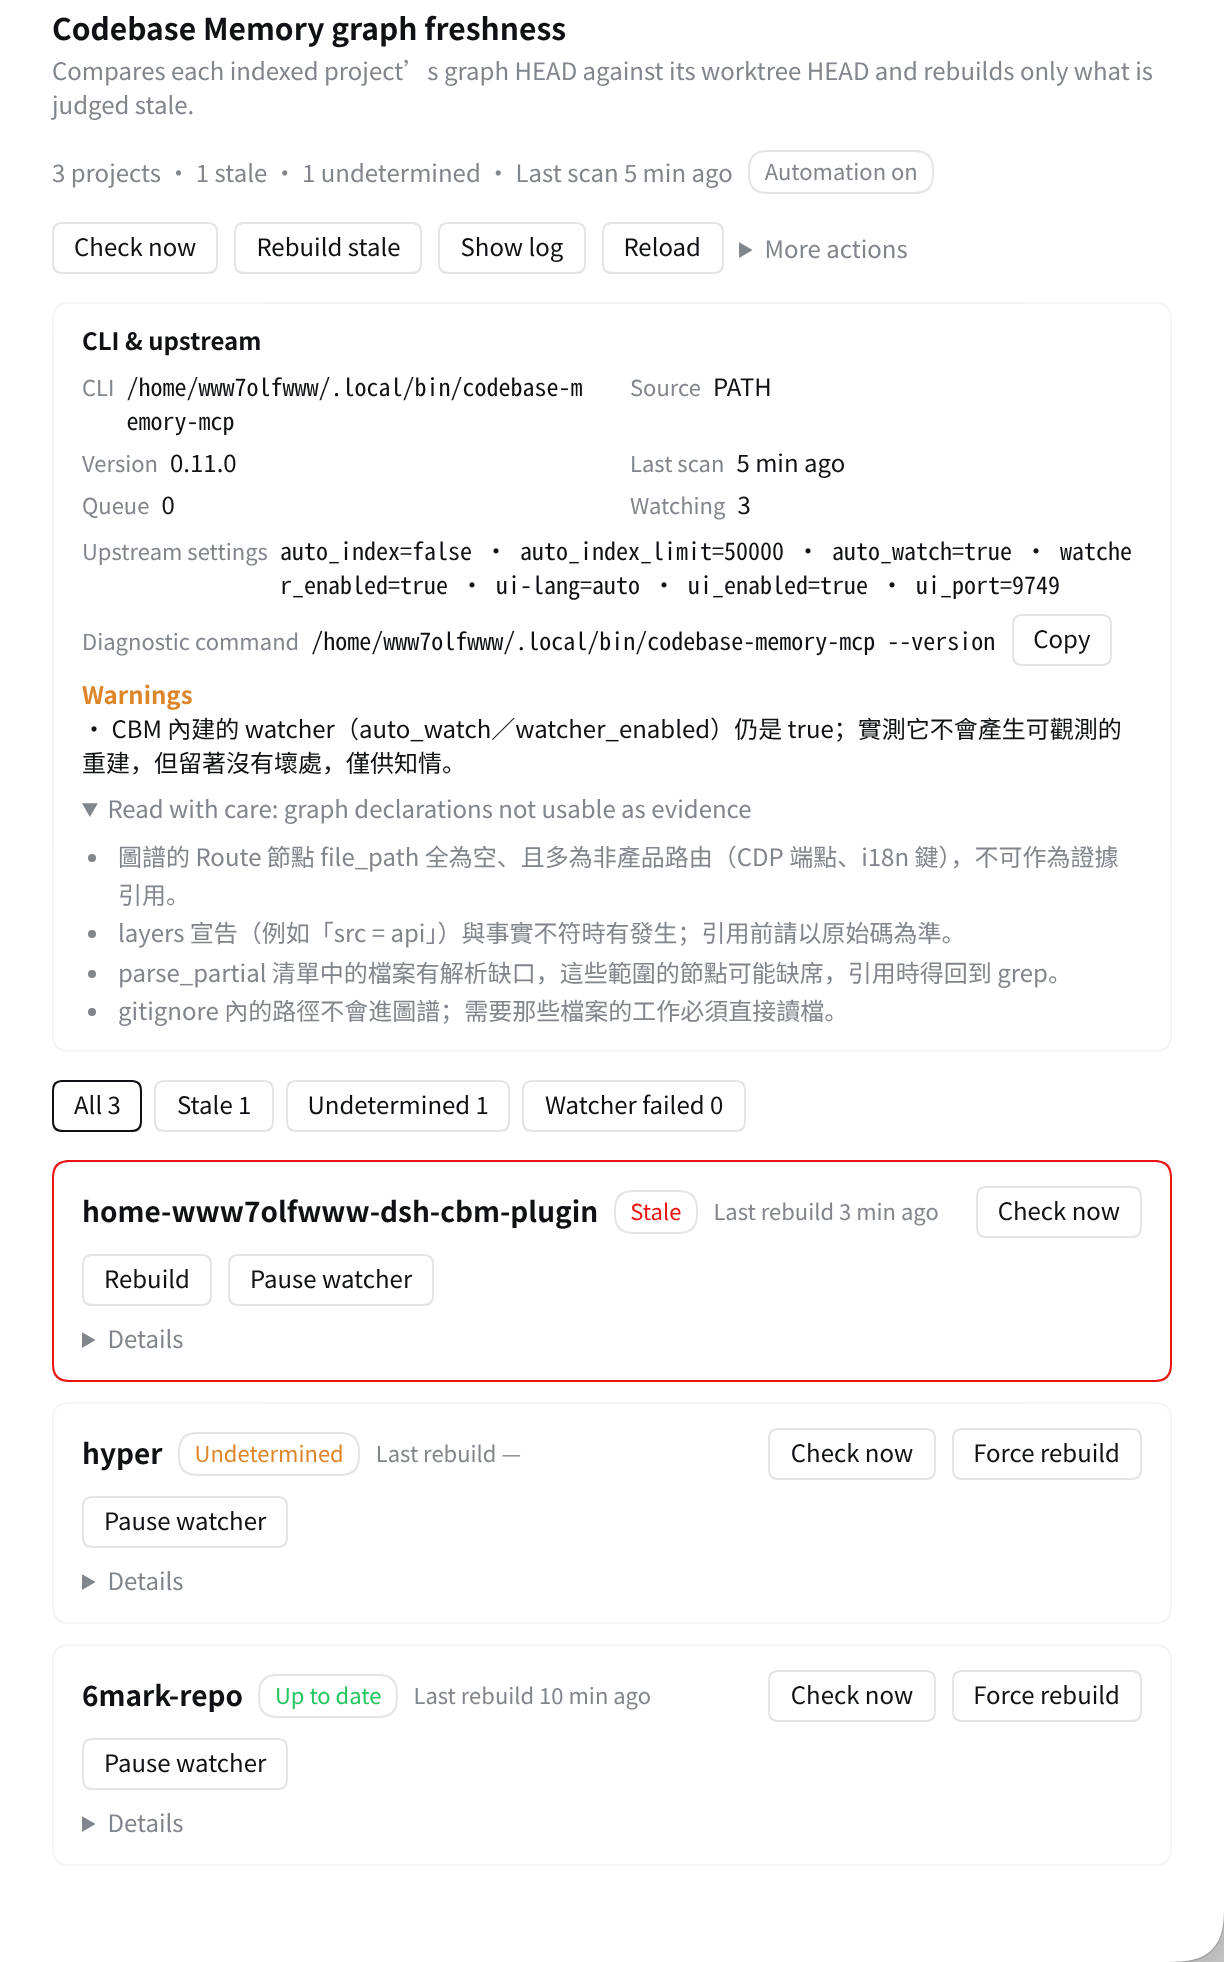
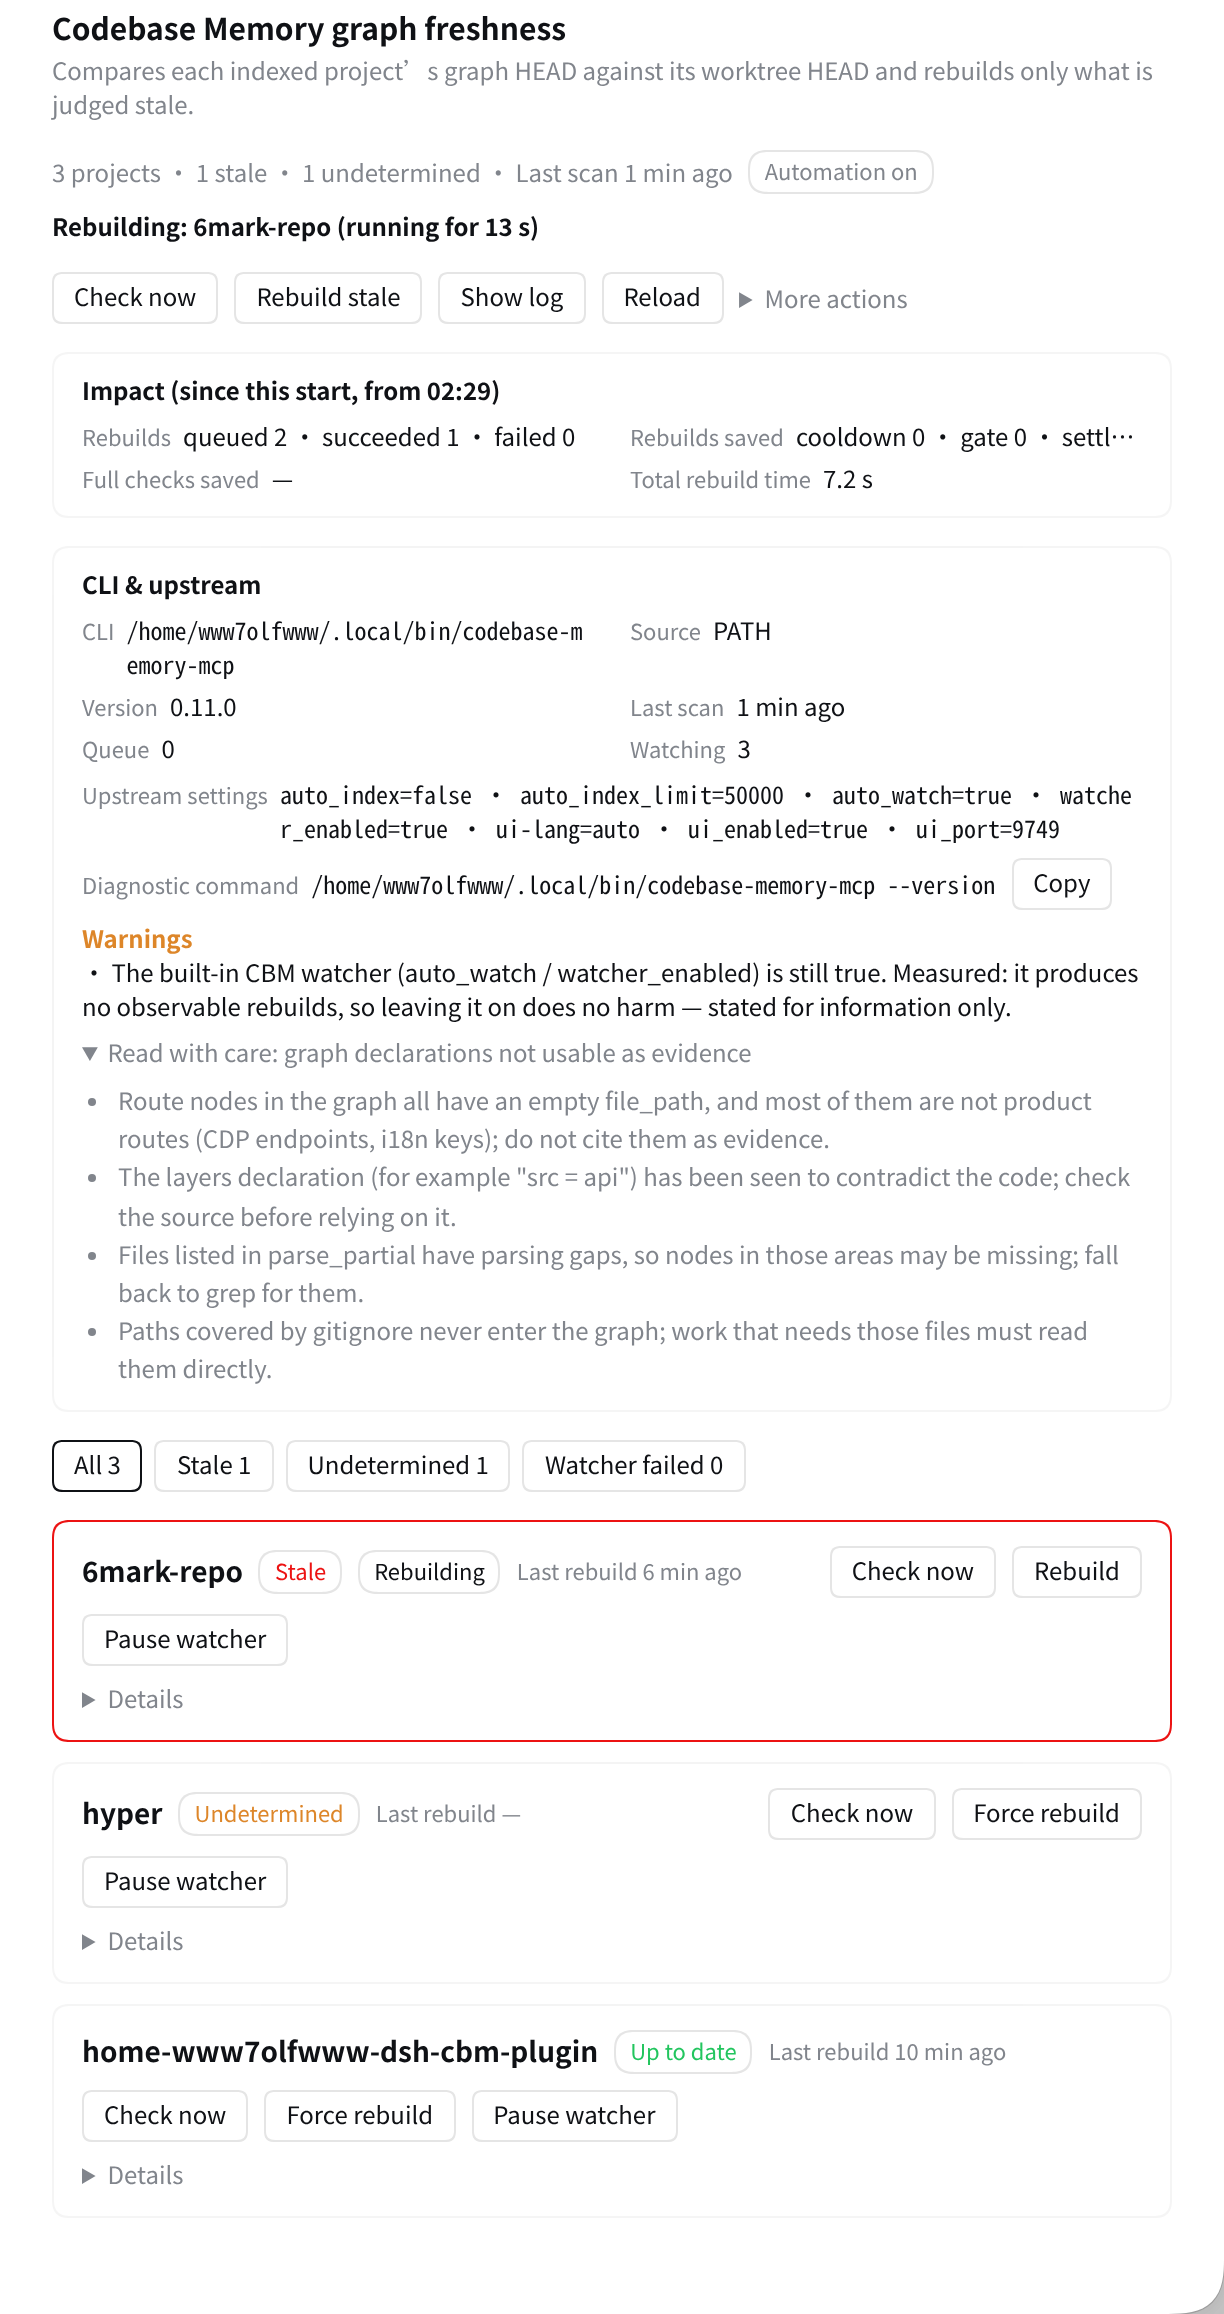
docs: 用換代後的 host 重拍截圖，補上「成效」區塊
`dsh web` 已於 02:29 換代，新 host 碼上線（實測 status.stats 20 鍵齊全、
statsSince 有值、revision 歸零、七條路由全部正常）。上一版截圖是在舊 host 上
拍的，因此缺了 0.4.0 才有的「成效」區塊——重拍補上。

zh（1224×1986）：`成效（本次啟動以來，自 02:29）` / 重建 排入 1 · 成功 1 ·
失敗 0 / 累計重建耗時 7.2 秒。數字是真的：新世代啟動時走了 crash-recovery
（rebuild.recovered），6mark-repo 重建 7174 ms、caughtUp=true，stats 正確計到。

兩張不是同一時刻，這是刻意的揭露而非瑕疵：zh 拍到 0 落後，en 拍到 1 落後並
帶著 `Rebuilding: 6mark-repo (running for 13 s)`——中間在改 README，監看器
真的觸發了一次重建被拍進去。沒有為了讓兩張一致而重拍或改資料。

英文卡片殘留中文：**零項**（Warnings 與 Read with care 全英文，WS8 的
WARNING_KEYS／CAVEAT_KEYS 生效）。唯一刻意保留的中文是 hyper 的
lastCheckedError（git 原文），它在收合的「詳細」裡，未入鏡。

README 兩版同步：alt 說明含「成效」；功能節新增「成效看得見」與「側邊欄常駐
指示」兩條（後者寫的是 verify-client 已斷言的行為，不是看圖推測）。中英各
148 行、19 標題逐行對齊。

側邊欄常駐指示**刻意不加拍**：`/state` 顯示 3 專案全 stale=false，而設計是
「安靜是預設、全新鮮時完全不渲染」，此刻 DOM 裡本來就不該有那顆圓點。
順帶更正上一輪的猜測——當時看到的 8px 琥珀色圓點位於工作區清單區
（x≈68），不是掛在 sidebar.footer.action 的這個指示。

回歸：204/204 tests、verify-client 212/212；GUI 語言以獨立探針確認為中文。

diff --git a/README.en.md b/README.en.md
@@ -30,7 +30,7 @@ dsh plugin --profile web add https://github.com/WwW7olFWwW/dsh-codebase-watcher/
 
 A "CBM 圖譜" [CBM Graph] card then appears under Settings; reload the page once if it does not.
 
-![Settings → "CBM 圖譜": each project's graph HEAD against its worktree HEAD, stale ones first](docs/assets/cbm-card-en.png)
+![Settings → "CBM 圖譜": the rebuild payoff since this start on top, then each project's graph HEAD against its worktree HEAD, stale ones first](docs/assets/cbm-card-en.png)
 
 ### How to confirm it worked
 
@@ -66,6 +66,7 @@ Both are settings-page fields and take effect immediately.
 - **Staleness detection**: the graph's `Branch.head_sha` against `git rev-parse HEAD`, giving an exact `behindBy`. With no `Branch` node it falls back to `indexed_at` and the database mtime; when the evidence is insufficient it reports "cannot be determined".
 - **Conditional rebuild**: only stale projects are queued. When the graph already matches HEAD, `POST /rebuild` returns `queued: 0` and no indexing work happens.
 - **Visible payoff**: the card carries a payoff block showing rebuilds queued / succeeded / failed **since this process started** (failures broken out by how many were aborted), how many rebuilds the cooldown and gate skipped, and cumulative rebuild time.
+- **Sidebar indicator**: visible without opening Settings — a warn dot when projects are stale, an error dot when a rebuild or a watcher has failed; **nothing is rendered at all when everything is fresh** (quiet is the default). It is informational only, not clickable.
 
 Rebuilds run as a child process, `codebase-memory-mcp cli index_repository`, which sidesteps the 60-second cap on the MCP tool. Every adopted project gets file watching with debounce, so a save is picked up on its own; without chokidar it falls back to `node:fs.watch`.
 

diff --git a/README.md b/README.md
@@ -30,7 +30,7 @@ dsh plugin --profile web add https://github.com/WwW7olFWwW/dsh-codebase-watcher/
 
 設定頁接著會多一張「CBM 圖譜」卡片；沒看到就重整一次頁面。
 
-![設定 →「CBM 圖譜」：每個專案的圖譜 HEAD 與工作樹 HEAD 逐項比對，落後的排在最前面](docs/assets/cbm-card.png)
+![設定 →「CBM 圖譜」：最上面是本次啟動以來的重建成效，下面是每個專案的圖譜 HEAD 與工作樹 HEAD 逐項比對，落後的排在最前面](docs/assets/cbm-card.png)
 
 ### 怎麼確認裝成功
 
@@ -66,6 +66,7 @@ codebase-memory-mcp config set auto_index false
 - **落後判定**：圖譜的 `Branch.head_sha` 對上 `git rev-parse HEAD`，給出精確的 `behindBy`；沒有 `Branch` 節點時退用 `indexed_at` 與資料庫 mtime，證據不足就回報「無法判定」。
 - **條件式重建**：只排入落後的專案；圖譜已經對上 HEAD 時，`POST /rebuild` 回 `queued: 0`，不產生任何索引工作。
 - **成效看得見**：卡片有一塊「成效」，顯示**本次啟動以來**的重建排入／成功／失敗（失敗另標其中幾次是被中止）、冷卻與閘門省下的重建次數、以及累計重建耗時。
+- **側邊欄常駐指示**：不開設定頁也看得到——有落後專案時一個 warn 圓點、有重建或監看失敗時一個 error 圓點；**全部新鮮時完全不渲染**（安靜是預設）。它是純指示，不可點擊。
 
 重建是以子行程呼叫 `codebase-memory-mcp cli index_repository`，繞過 MCP 工具那個 60 秒上限。每個已納管的專案都有檔案監看與防抖，存檔後自動追上；chokidar 不在時退回 `node:fs.watch`。
 
